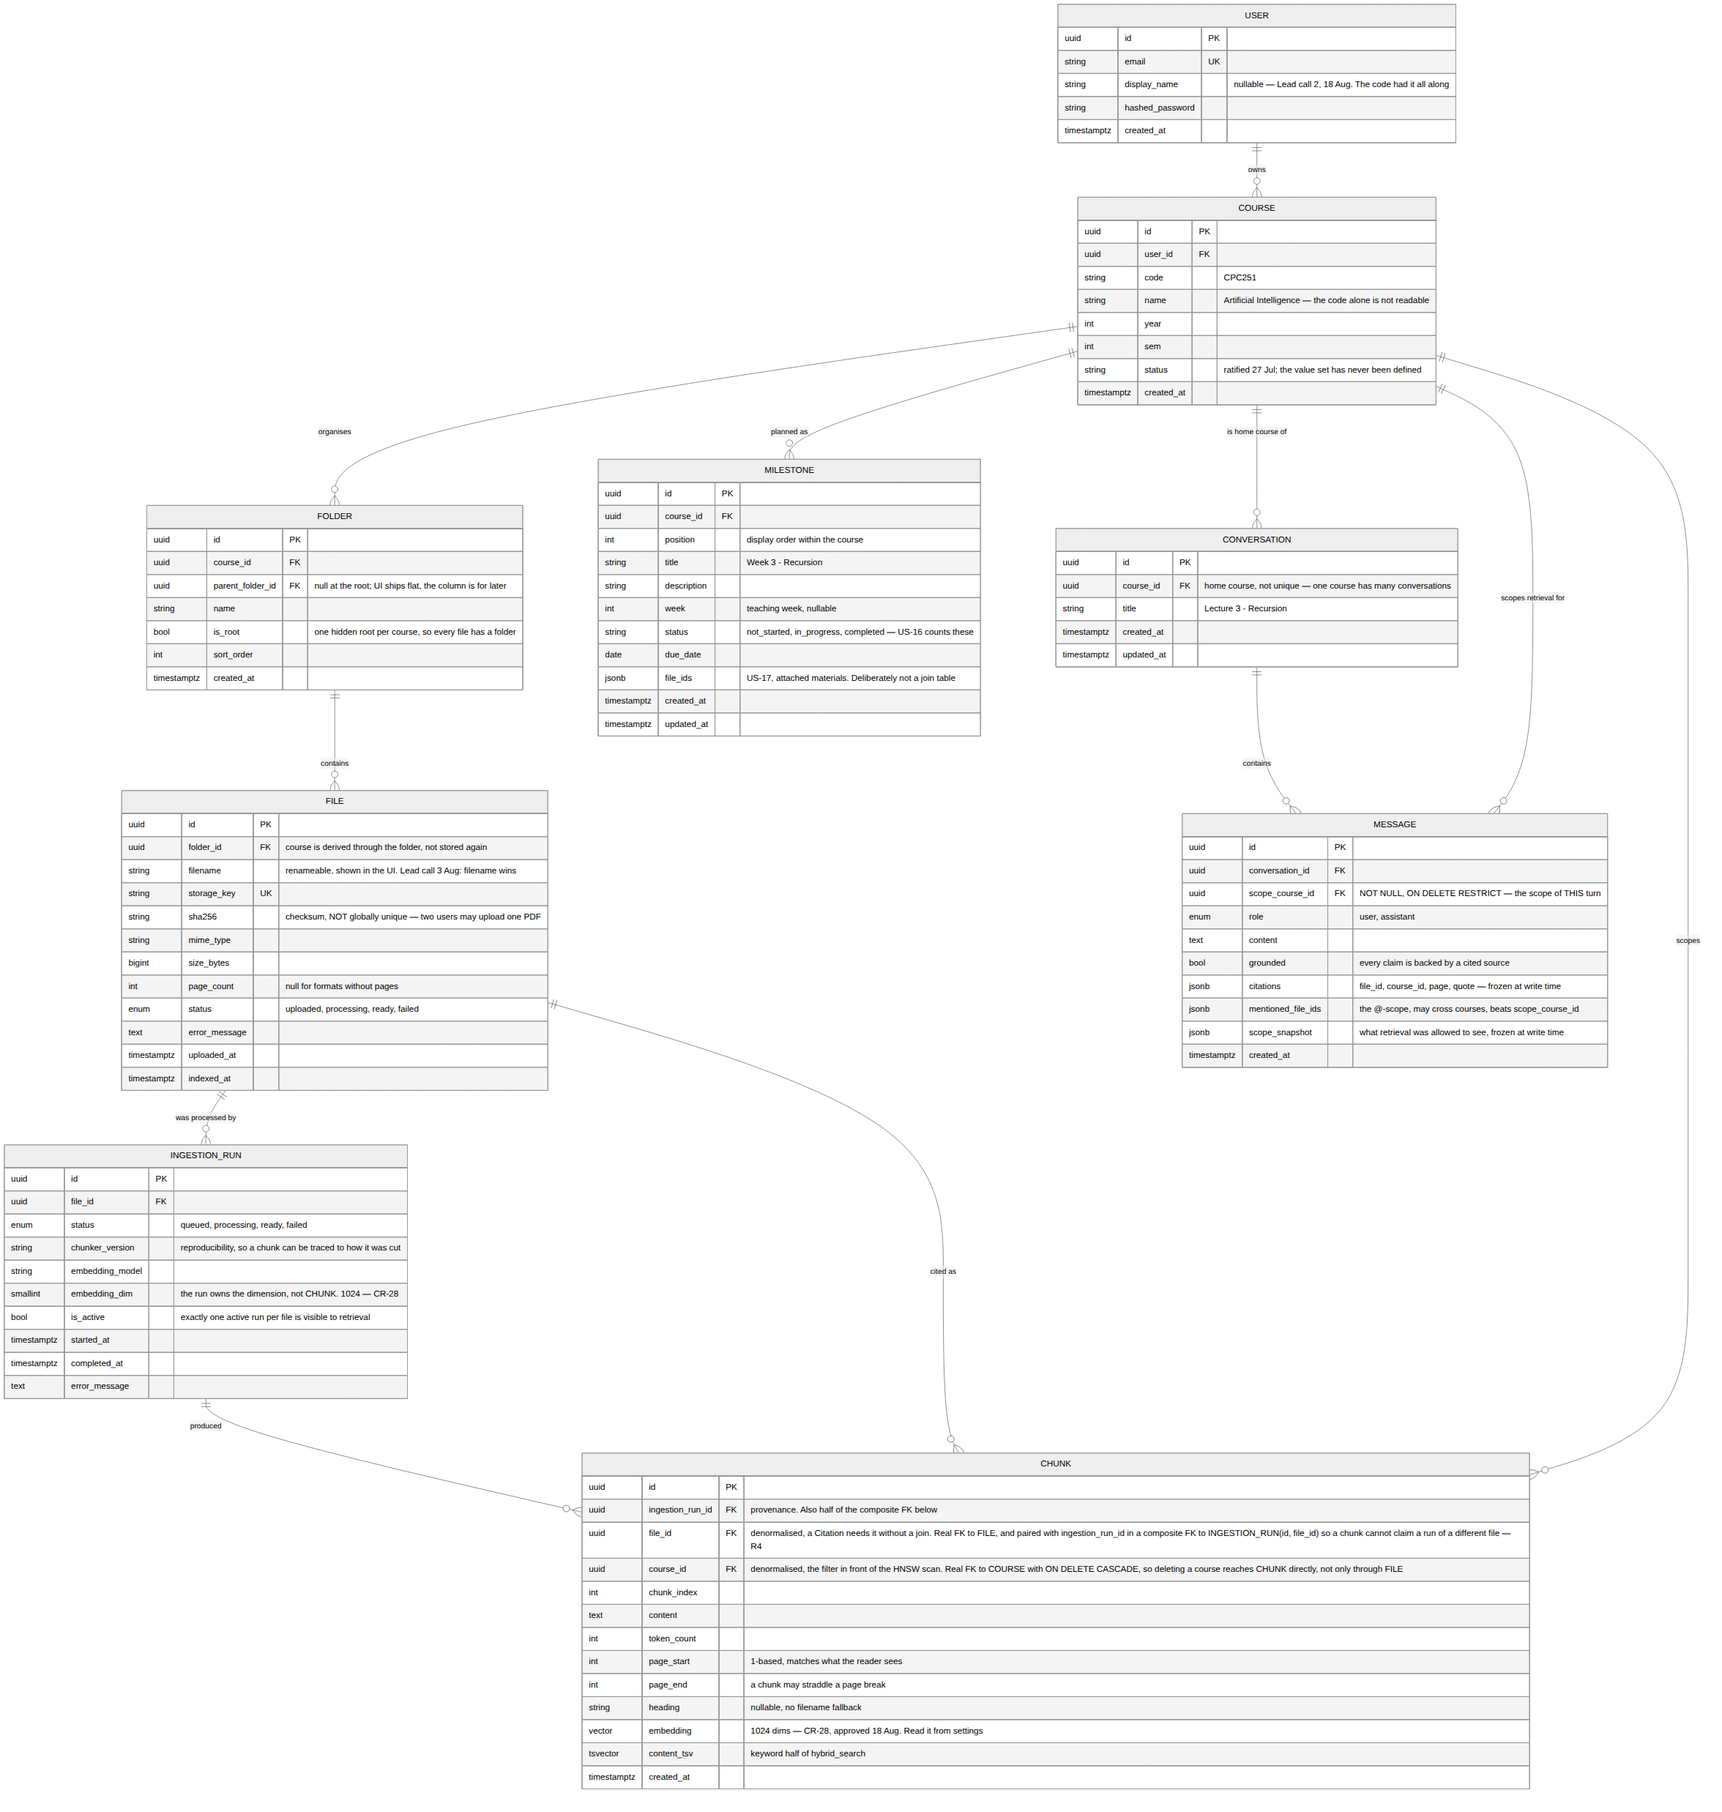
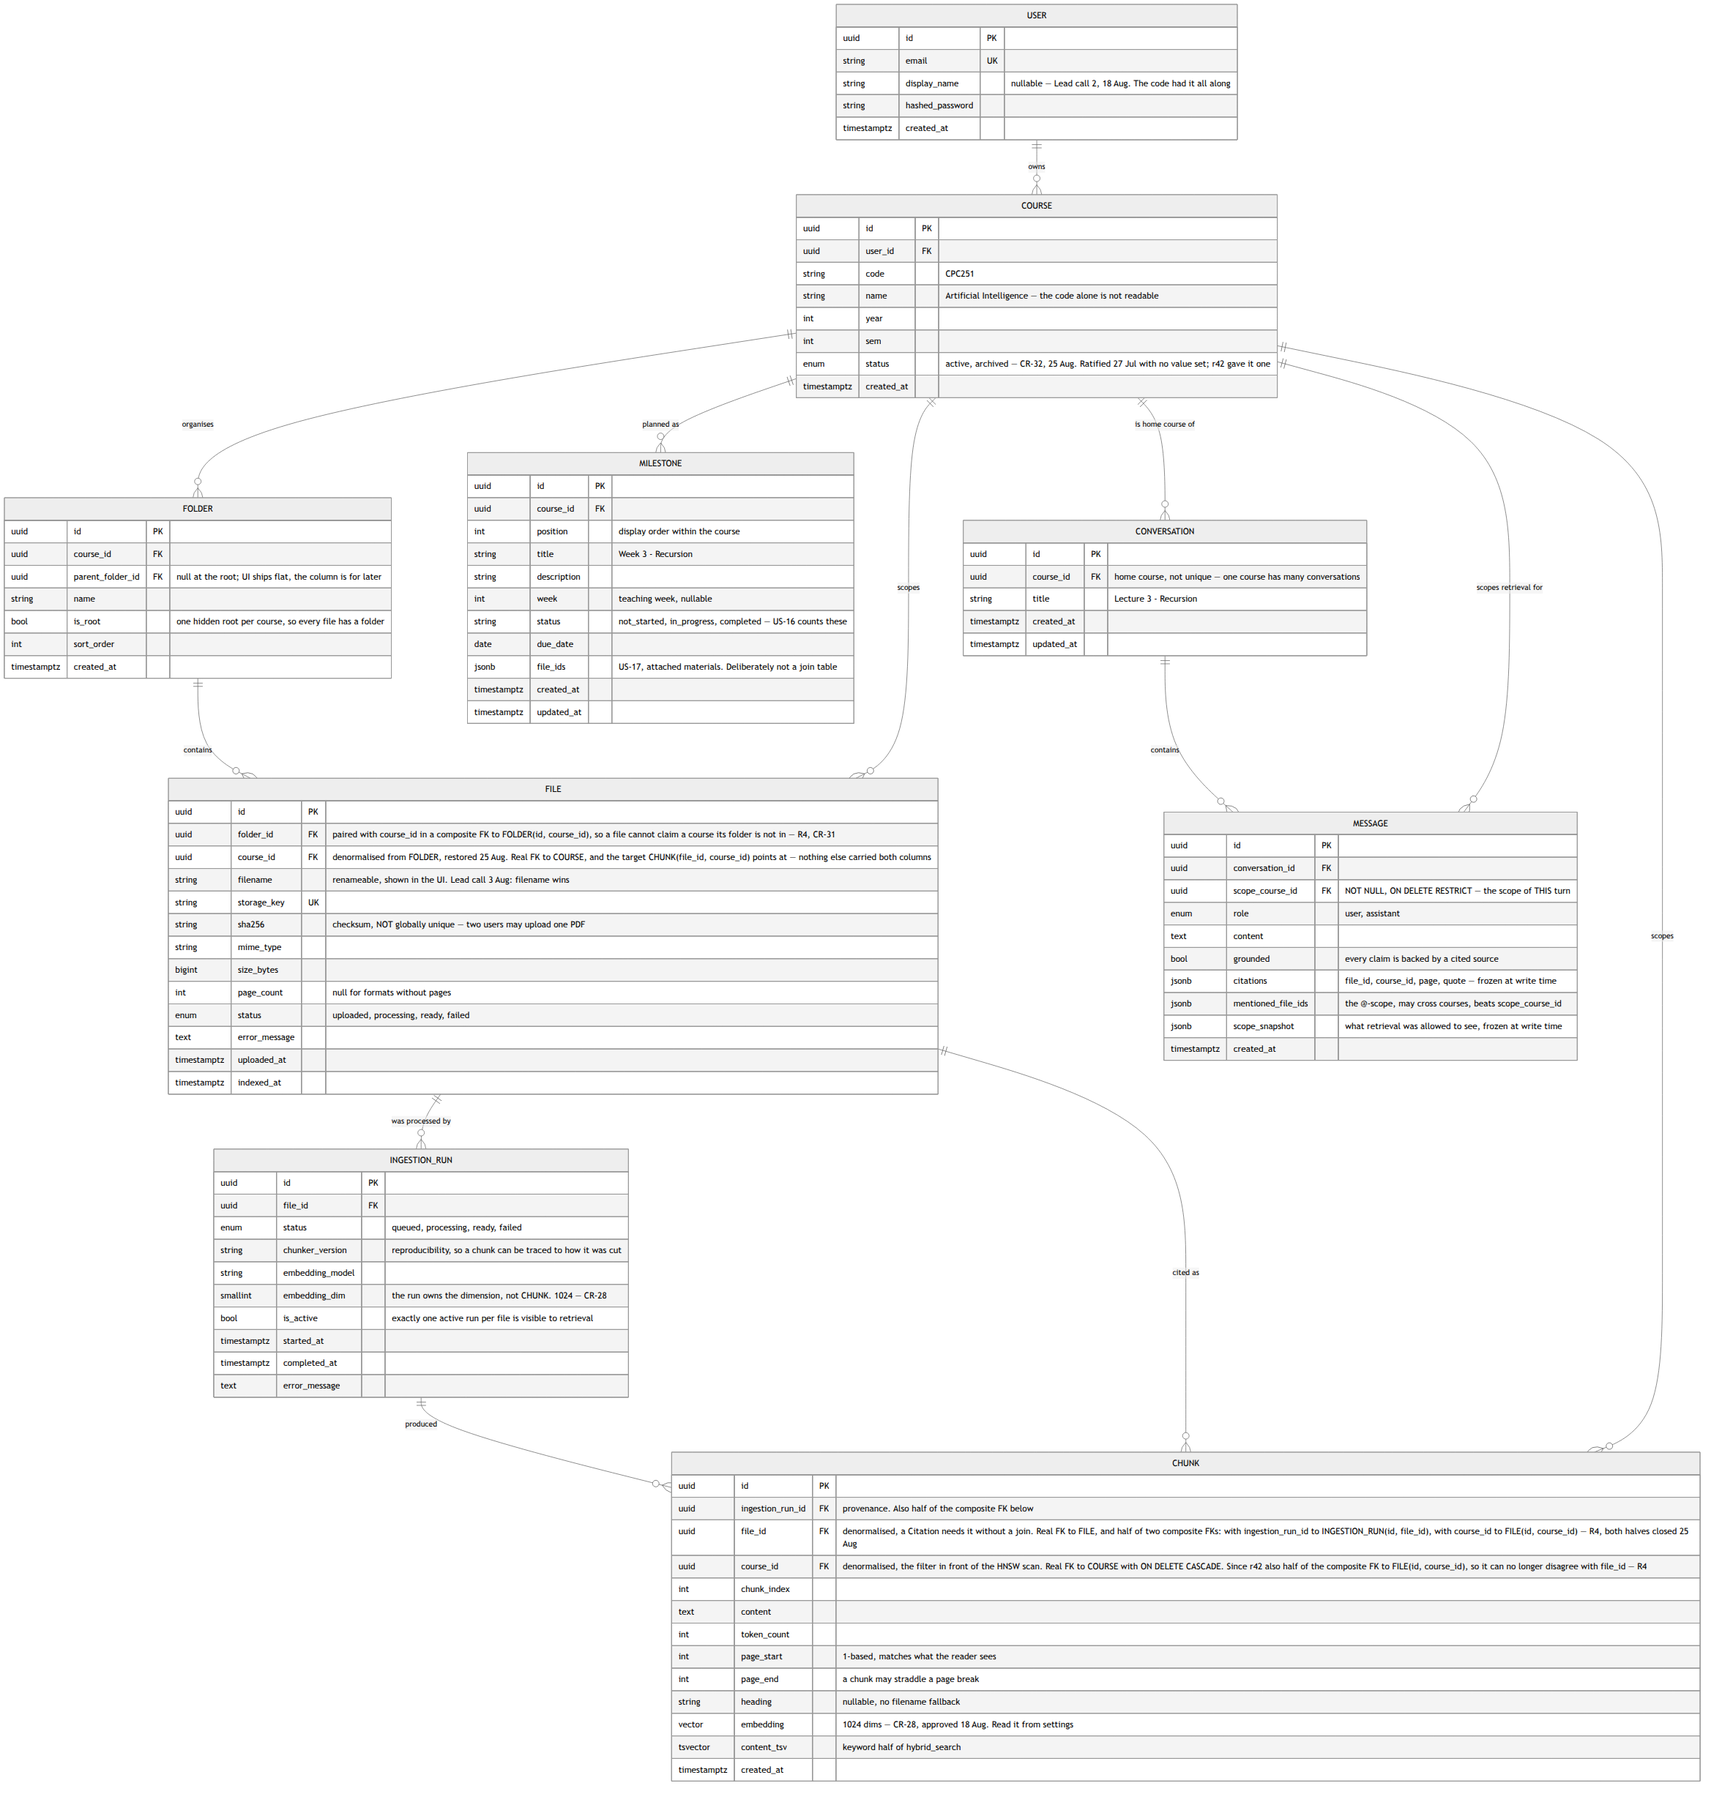
docs(erd): fold the 25 Aug decisions into the diagram and KNOWN_ISSUES
r42 shipped Decisions 02 and 06 yesterday; this is the paperwork catching up to
the schema.

erd.mmd
  FILE regains course_id and CHUNK gains its second composite foreign key, so
  the diagram shows the chain the database now enforces rather than one link of
  it. COURSE.status stops being an undefined string. A new COURSE ||--o{ FILE
  edge, because the foreign key is real and R26 was exactly this mistake made
  once already.

  The "superseded rather than dropped" block said FILE.course_id was replaced by
  folder_id under CR-25. That is now half a sentence short of a lie: the column
  came back on 26 Aug, and the entry says so, along with why it is not a reversal
  of the 18 Aug decision. Deriving a course through the folder is still the right
  reading path; it was never a usable foreign key target, and that is the whole
  reason R4's second half waited five days.

KNOWN_ISSUES.md
  R4 closed, written as two halves in two migrations rather than one line saying
  done, including why a trigger lost to a denormalised column: with three people,
  a rule that neither code review nor git log shows is worse than a wider table.
  Also records that option C was defensible — a wrong course_id never crosses
  accounts — and that what it needed was a date, not a defence.

  R5 is open but owned. Assigned to AI-1 with the measurement that makes it
  concrete: two runs over one file, and the superseded run's chunks take rank 1
[…]

diff --git a/docs/erd/KNOWN_ISSUES.md b/docs/erd/KNOWN_ISSUES.md
@@ -142,9 +142,21 @@ with no foreign key for v1, which is what the code already does. The frozen-reco
 property is the reason, not inertia: a dangling file ID is the historically correct
 answer to "what did the user ask for".
 
-**The second half is now a scheduled item, not a gap.** Decision 1 brought `FOLDER`
-into the build, so folder-level @-mentions stop being hypothetical the moment AI-2
-ships that model. It is the first item on the next agenda.
+**25 August — the second half is decided. Option A: the freeze is the point.**
+Mentioning a folder expands to that folder's file list at send time, and the array
+keeps those IDs. Adding a file to the folder afterwards does not reach back into an
+earlier turn.
+
+The alternative was storing folder IDs and expanding at retrieval time, which would
+mean "whatever is in this folder now". That reading is defensible on its own and
+wrong next to the first half of R6: `mentioned_file_ids` would then hold two kinds
+of time in one column, frozen for files and live for folders, with nothing in the
+schema saying which a given row is.
+
+**A does carry a condition, and it is not a database change.** A user who mentions
+a folder is picking a container and getting a list, and the difference only shows up
+later, when the list has gone stale. That has to be visible in the UI at the moment
+of mention — it cannot live only in a column comment. Logged against F2.
 
 ### R10 — `MESSAGE` has no `sequence_no`
 
@@ -185,6 +197,12 @@ These three are constraints and indexes. They do not appear on an ER diagram at
 all; they appear in the migration that builds the schema. Listed here so the
 diagram is not mistaken for the whole specification.
 
+**This heading is now historical for two of the three.** R4 closed on 26 August,
+across r41 and r42 rather than one migration. R5 was reclassified on 22 August as
+a retrieval-layer query predicate and never belonged in a migration at all; it is
+open and assigned. Only R20 was ever finished where this heading says it would be.
+The heading is kept rather than renamed so that older references to it still land.
+
 ### R4 — `CHUNK` holds three independently-valid foreign keys
 
 `ingestion_run_id`, `file_id` and `course_id` can each point at a legitimate row
@@ -196,6 +214,60 @@ without a join, and `course_id` is the filter in front of the vector scan.
 Keeping the denormalisation and enforcing consistency needs either a composite
 foreign key or a trigger.
 
+**Closed 26 August, in two halves and two migrations.**
+
+The first half shipped with r41 on 22 August: `CHUNK (ingestion_run_id, file_id)`
+points at `INGESTION_RUN (id, file_id)`, so a chunk can no longer claim a run
+belonging to a different file. That needed `uq_ingestion_run_id_file`, because
+PostgreSQL will not accept those two columns as a foreign key target unless some
+unique constraint covers exactly them — `id` being a primary key is not enough.
+
+The second half could not be written the same way, and that is why it waited. The
+agreement to enforce is between `CHUNK.course_id` and `CHUNK.file_id`, but a
+composite foreign key must point at real columns on one table, and no table
+carried both `file_id` and `course_id`. FILE reached its course through FOLDER.
+There was nothing to point at.
+
+**25 August meeting, Decision 02, option B — measured before the vote.** With
+nothing enforcing it, this row went in against a file that lives under CSC3105:
+
+```sql
+-- this file is under CSC3105; course_id says CSC3110
+INSERT INTO chunk(..., file_id, course_id, chunk_index, ...) VALUES (...);
+ chunk_index |   content
+-------------+--------------
+           8 | wrong course
+(1 row)
+```
+
+Three options were on the agenda: a trigger, denormalising `course_id` back onto
+FILE, or leaving it to `processor.py` and writing that down with a date. B carried.
+A trigger hides the logic somewhere neither code review nor `git log` shows it,
+which matters more with three people than with thirty.
+
+**Shipped as r42, 26 August (CR-31).** FILE regains `course_id`, and the
+constraint becomes a chain rather than a single link:
+
+```
+CHUNK (file_id, course_id)   -> FILE   (id, course_id)
+FILE  (folder_id, course_id) -> FOLDER (id, course_id)
+```
+
+FOLDER and FILE each carry `UNIQUE (id, course_id)` for the same reason
+INGESTION_RUN carries `uq_ingestion_run_id_file`: to be a legal target. Neither
+forbids anything new.
+
+Verified by `check_r42.py`, eleven cells over `upgrade -> downgrade -> upgrade`.
+Three of them are behavioural rather than structural: a file claiming a course
+its folder is not in is rejected, a chunk disagreeing with its file is rejected,
+and — the cell that matters most — a row where all three agree still goes in. A
+constraint that blocks everything passes the first two.
+
+**What this does not close.** The chain binds `course_id` to `file_id`, and r41
+bound `file_id` to `ingestion_run_id`. Both links are enforced, so all three keys
+now describe one consistent object. `processor.py` is no longer the only thing
+standing between a mislabelled chunk and the database.
+
 ### R5 — Nothing filters the vector scan by embedding model
 
 `INGESTION_RUN` records `embedding_model` and `embedding_dim`, which is what
@@ -206,6 +278,40 @@ answer.
 
 Retrieval must therefore constrain to the active run's model, not merely to
 `is_active`.
+
+**25 August meeting, Decision 3 — assigned to AI-1.** R5 left r41 on 22 August
+because it is a query condition, not a constraint, and it then sat in this file
+as the only entry that was neither decided nor owned. It now has a name.
+
+The work lands in `_vector_similarity_search`, which already takes an optional
+`file_ids` filter; "only this run" is the same shape of change in the same place.
+
+**Measured 25 August.** One file, two ingestion runs, two chunks each, one query
+vector. The old run is `is_active = false`:
+
+```
+current _vector_similarity_search
+  1. distance=0.0100  OLD RUN  chunk 0  (text-embedding-004)
+  2. distance=0.0500  OLD RUN  chunk 1  (text-embedding-004)
+  3. distance=0.1000  NEW RUN  chunk 0  (gemini-embedding-001)
+  4. distance=0.1500  NEW RUN  chunk 1  (gemini-embedding-001)
+
+with an is_active join
+  1. distance=0.1000  NEW RUN  chunk 0  (gemini-embedding-001)
+  2. distance=0.1500  NEW RUN  chunk 1  (gemini-embedding-001)
+```
+
+The superseded chunks take rank 1 and 2 and eat two of the five `top_k` slots.
+Nothing errors; the answer is simply built on text that was replaced.
+
+`ix_ingestion_run_one_active` (r41, partial unique on `file_id WHERE is_active`)
+guarantees at most one active run per file, so a join is enough within a file. It
+is not enough across files: two active runs can still name different
+`embedding_model` values. Whether to add that second filter now or when a second
+model is actually in use is AI-1's call, to be recorded here either way.
+
+`_full_text_search` has the same hole. Lexical ranking does not care which model
+produced the vectors, but it does return chunks from superseded runs.
 
 ### R8 — `INGESTION_RUN.is_active` is a boolean with no uniqueness guarantee
 
@@ -576,11 +682,11 @@ SQLAlchemy's default, not anybody's mistake.
 | R14 | `citations` JSONB carries no `chunk_id` | **Accepted 18 Aug — routed to `scope_snapshot`, not `citations`** |
 | R1 | `CONVERSATION.user_id` redundant | **Closed — the column was never ratified; removed** |
 | R15 | Required `course_id` blocks first-run onboarding | **Accepted 18 Aug — Unsorted course at signup** |
-| R6 | `mentioned_file_ids` has no FK; folders unrepresented | **Not reached — proceeds on the recommendation: JSONB stays in v1.** Folder @-mentions → next meeting |
+| R6 | `mentioned_file_ids` has no FK; folders unrepresented | **Closed 25 Aug — both halves.** JSONB stays in v1 (18 Aug, on the recommendation). Folder @-mentions expand to a file list at send time and stay frozen — Decision 5, option A, so one column carries one kind of time. The UI has to say so at the moment of mention; logged against F2 |
 | R10 | `MESSAGE` has no `sequence_no` | **Deferred** — accepted v1 defect, order implied by `created_at` |
 | R16 | Soft delete on `COURSE` / `FILE` | **Declined 18 Aug** — and so **v1 has no delete-course feature**, see R16 |
-| R4 | `CHUNK` FKs can contradict each other | **Half done 22 Aug** (`efda7a3`) — `fk_chunk_run_file_agree` makes a chunk's run and file agree, backed by `uq_ingestion_run_id_file`. The `file_id`/`course_id` half is **not enforceable by a foreign key** (FILE carries no `course_id`) and is **open, on the 25 Aug agenda** |
-| R5 | Vector scan not filtered by embedding model | Open, **unassigned — on the 25 Aug agenda**. **Retrieval layer, not the migration**. Reclassified 22 Aug: a constraint rejects a row that is itself invalid, and a chunk embedded by an older model is a perfectly valid row. What is wrong is comparing it against a query embedded by a different one, and no constraint sees a comparison. It belongs in `_vector_similarity_search` in `db/vector_ops.py` as a join to `INGESTION_RUN` filtering on `is_active` and `embedding_model`. `KNOWN_ISSUES` already said as much in the R21 entry — "R5 fixes that at the query" — while this row said first migration; the two contradicted each other until now. **Unassigned.** |
+| R4 | `CHUNK` FKs can contradict each other | **Closed 26 Aug, in two migrations.** r41 (`efda7a3`, 22 Aug) tied a chunk's run to its file via `fk_chunk_run_file_agree`. r42 (`2a22d57`, 26 Aug) tied `course_id` to `file_id`: Decision 02 option B put `course_id` back on FILE so a composite FK had something to point at, making it a chain — `CHUNK(file_id, course_id)` → `FILE(id, course_id)` → and `FILE(folder_id, course_id)` → `FOLDER(id, course_id)`. CR-31. Verified 11/11 by `check_r42.py`, including that a row where all three agree still inserts |
+| R5 | Vector scan not filtered by embedding model | **Assigned 25 Aug to AI-1 (Decision 3)** — still open, now owned. Measured 25 Aug: with two runs over one file, the superseded run's chunks take rank 1 and 2 and eat two of five `top_k` slots, silently. `_full_text_search` has the same hole. **Retrieval layer, not the migration**. Reclassified 22 Aug: a constraint rejects a row that is itself invalid, and a chunk embedded by an older model is a perfectly valid row. What is wrong is comparing it against a query embedded by a different one, and no constraint sees a comparison. It belongs in `_vector_similarity_search` in `db/vector_ops.py` as a join to `INGESTION_RUN` filtering on `is_active` and `embedding_model`. `KNOWN_ISSUES` already said as much in the R21 entry — "R5 fixes that at the query" — while this row said first migration; the two contradicted each other until now. **Unassigned.** |
 | R8 | `is_active` needs a partial unique index | **Done 22 Aug** (`efda7a3`) — `ix_ingestion_run_one_active` UNIQUE on `(file_id) WHERE is_active`. Verified from empty: a second active run raises `UniqueViolation`, further inactive runs are accepted |
 | R17 | `UNIQUE (user_id, code, year, sem)` | **Done 22 Aug** — declared on `Course.__table_args__` and created in the initial migration as `uq_course_user_code_year_sem`. Verified from an empty database: a duplicate raises `UniqueViolationError`, while a second semester, a second year and a second user all insert. |
 | R18 | `UNIQUE (ingestion_run_id, chunk_index)` | **Done 22 Aug** (`efda7a3`) — `uq_chunk_run_index`. Verified: a second chunk 0 in one run is rejected; chunk 0 in a re-index run is accepted |
@@ -600,8 +706,9 @@ as follows:
 | | Where it stands |
 |---|---|
 | **R8 · R17 · R18 · R19 · R20** | **Done 22 Aug**, on `dev` in `8767fc7` and `efda7a3`, each verified by rebuilding the database from empty and probing it |
-| **R4** | **Half done.** The foreign key holds a chunk's run and file together; the `file_id`/`course_id` half needs a trigger or a denormalised column and is **a decision on the 25 August agenda** |
+| **R4** | **Closed 26 Aug.** The 25 August meeting chose the denormalised column over a trigger (Decision 02, option B), and r42 shipped it as a two-link chain. A trigger would have hidden the rule where neither code review nor `git log` shows it |
 | **R5** | **Not a constraint.** Reclassified 22 Aug as a retrieval-layer query predicate, and **unassigned** — also on the 25 August agenda |
 
-**The two rows still open are both on that agenda, and neither is migration work
-any more.** Nothing on this list is marked "Open — 18 Aug".
+**One row is still open, and it is not migration work.** R4 closed on 26 August in
+r42 (`2a22d57`); R5 is open and owned by AI-1 since the 25 August meeting. Nothing
+on this list is marked "Open — 18 Aug", and nothing is unassigned.

diff --git a/docs/erd/CODE_VS_ERD.md b/docs/erd/CODE_VS_ERD.md
@@ -1,5 +1,15 @@
 # Code vs ERD — field-by-field diff, 17 Aug 2026 · re-run 19 Aug 2026
 
+> **Superseded in part, 26 August 2026.** This document is a snapshot of the
+> 17 August divergence and is kept as one. Two of its findings have since moved:
+> `FILE.course_id` was removed on 18 August (Decision 1, option A) and then
+> restored on 26 August by r42 — not as a reversal of that decision, but because
+> R4's second half needs a composite foreign key and a composite key must point at
+> real columns on one table. `FILE.folder_id` stayed; the file still belongs to a
+> folder, and `course_id` now rides alongside it under a constraint that keeps the
+> two in agreement. `COURSE.status` gained a value set the same day. See
+> `KNOWN_ISSUES.md` R4 and the `erd.mmd` header for the current position.
+
 > ## Status — 20 August 2026
 >
 > **Re-run after AI-2's models landed. Seven of eight tables now match the ERD

diff --git a/docs/erd/README.md b/docs/erd/README.md
@@ -45,7 +45,7 @@ npx mmdc -i docs/erd/erd.mmd -o docs/erd/erd.png -c cfg.json -p pp.json -b white
 { "args": ["--no-sandbox", "--disable-setuid-sandbox"] }
 ```
 
-Current output is 2352 × 2691, ~295 KB. If a render comes out several megabytes,
+Current output is 2352 × 2466, ~350 KB. If a render comes out several megabytes,
 `-s 3` has been raised — three is enough to read every annotation at 100%.
 
 ## Three traps, all hit for real
